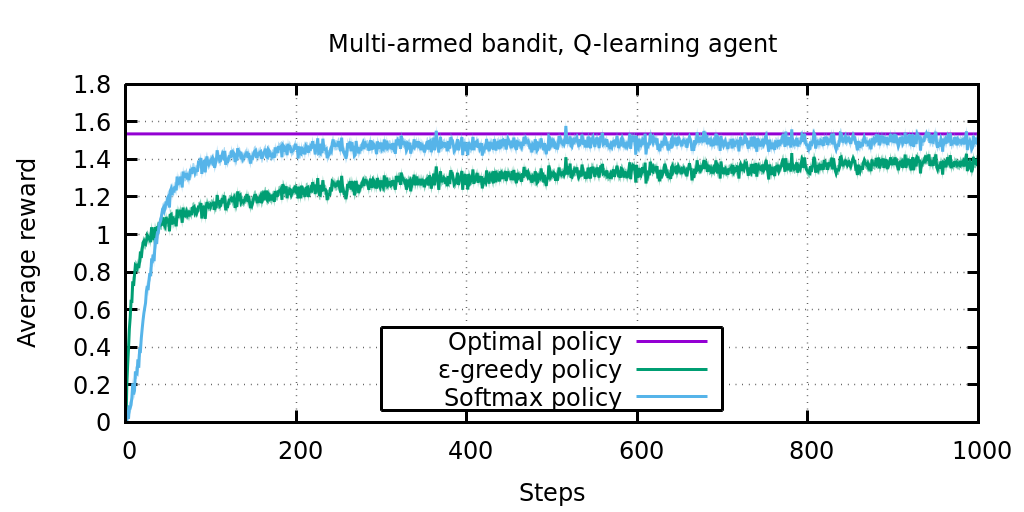
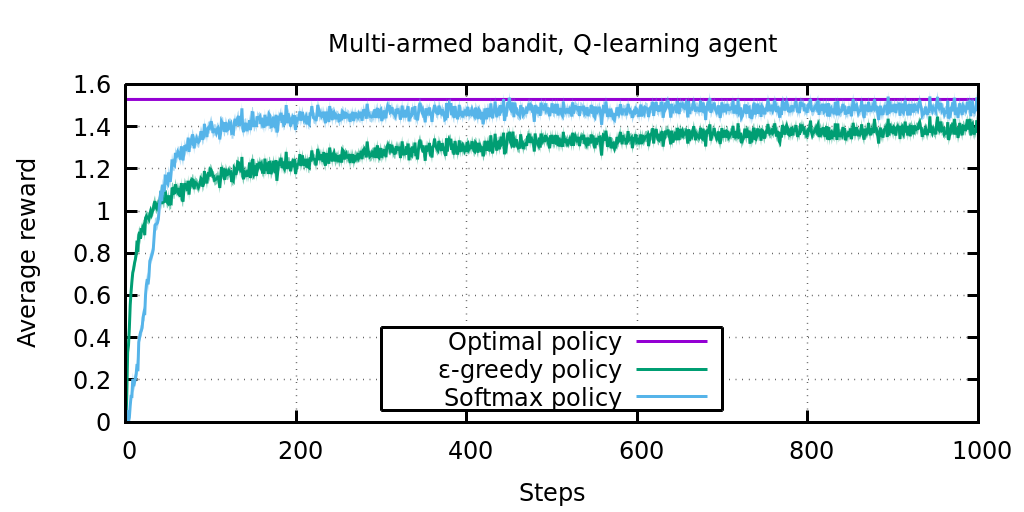
Add back Bayesian agent and policy-dependent bandit environment

Changed region(s): [[0.0625, 0.1875, 0.9688, 0.7812], [0.9375, 0.6562, 0.9688, 0.6875], [0.0938, 0.1562, 0.125, 0.1875]]

diff --git a/environments.py b/environments.py
@@ -45,18 +45,22 @@ class BanditEnvironment(BaseEnvironment):
     There are k discrete actions, each of which has a true values that is samples from a standard normal distribution
     The reward for a given action is sampled from a standard normal distribution shifted by the corresponding true value
     """
-    def __init__(self, k : int):
-        self.num_arms = k
+    def __init__(self, num_arms : int):
+        self.num_arms = num_arms
+        self.seed = 42
 
-    def interact(self, action : int, policy = None) -> float:
+    def interact(self, action : int, policy : NDArray[np.float64]) -> float:
         assert action >= 0 and action < self.num_arms
-        return np.random.normal(self.true_values[action], 1)
+        return np.random.normal(self.values[action], 1)
 
     def get_optimal_reward(self) -> int:
-        return self.true_values.max()
+        return self.values.max()
 
     def reset(self):
-        self.true_values = np.random.normal(0, 1, (self.num_arms,))
+        # Seed separate RNG, such that the environment is consistent across agents
+        self.seed += 1
+        self.random = np.random.default_rng(self.seed)
+        self.values = self.random.normal(0, 1, (self.num_arms,))
 
 
 class NewcombLikeEnvironment(BaseEnvironment):
@@ -122,3 +126,24 @@ class CoordinationGameEnvironment(NewcombLikeEnvironment):
             [2, 0],
             [0, 1],
         ])
+
+
+class PolicyDependentBanditEnvironment(NewcombLikeEnvironment):
+    """
+    Like a multi-armed bandit, but the reward depends on the (prediction,action) pair, rather than just the action.
+    This is a generalisation of both the multi-armed bandit and Newcomb-like problems
+    """
+    def __init__(self):
+        self.num_arms = 2
+        self.seed = 42
+        super().__init__(self.sample_reward_table())
+
+    def reset(self):
+        self.reward_table = self.sample_reward_table()
+
+    def sample_reward_table(self) -> NDArray[np.float64]:
+        # Seed separate RNG, such that the environment is consistent across agents
+        self.seed += 1
+        self.random = np.random.default_rng(self.seed)
+        return self.random.normal(0, 1, (self.num_arms,self.num_arms))  # 2D array
+

diff --git a/agents.py b/agents.py
@@ -58,11 +58,12 @@ class QLearningAgent(BaseAgent):
     Classical Q-learning agent that interacts with a multi-armed bandit
 
     Arguments:
+        num_actions:     Number of possible action in environment
         policy_function: Function to build policy from Q-values
         learning_rate:   Learning rate for Q-learning
     """
-    def __init__(self, k : int, policy_function, learning_rate : float = 0.1):
-        self.num_actions = k
+    def __init__(self, num_actions : int, policy_function : callable, learning_rate : float = 0.1):
+        self.num_actions = num_actions
         self.policy_function = policy_function
         self.learning_rate = learning_rate
 
@@ -76,6 +77,34 @@ class QLearningAgent(BaseAgent):
     def reset(self):
         self.q = np.zeros((self.num_actions,))
         self.step = 0
+
+
+class BayesianAgent(BaseAgent):
+    """
+    Agent using Bayesian inference
+
+    For each action it estimates a normal distribution and the picks the action with the largest central value
+    Use epsilon-greedy policy to balance continuous exploration
+    Optionally start with optimism to encourage early exploration
+    """
+    def __init__(self, num_actions : int, policy_function : callable):
+        self.num_actions = num_actions
+        self.policy_function = policy_function
+
+    def get_policy(self) -> NDArray[np.float64]:
+        self.step += 1
+        return self.policy_function(self.values, self.num_actions, self.step)
+
+    def update(self, policy : NDArray[np.float64], action : int, reward : float):
+        # Estimate reward of the action and its uncertainty based on observed reward and priors
+        # Define precision, tau, as 1/sigma^2 to avoid vanishing sigma precision issues
+        self.values[action] = (self.precision[action] * self.values[action] + reward) / (self.precision[action] + 1.0)
+        self.precision[action] += 1
+
+    def reset(self):
+        self.step = 0
+        self.values = np.zeros(self.num_actions)
+        self.precision = np.ones(self.num_actions) * 0.1
 
 
 class ExperimentalAgent1(QLearningAgent):

diff --git a/main.py b/main.py
@@ -16,17 +16,20 @@ def main(options):
     if options.environment == "bandit":
         env = environments.BanditEnvironment(options.arms)
     elif options.environment == "newcomb":
+        assert options.arms == 2
         env = environments.NewcombEnvironment()
-        assert options.arms == 2
     elif options.environment == "damascus":
+        assert options.arms == 2
         env = environments.DeathInDamascusEnvironment()
-        assert options.arms == 2
     elif options.environment == "asymmetric-damascus":
+        assert options.arms == 2
         env = environments.AsymmetricDeathInDamascusEnvironment()
-        assert options.arms == 2
     elif options.environment == "coordination":
-        env = environments.CoordinationGameEnvironment()
         assert options.arms == 2
+        env = environments.CoordinationGameEnvironment()
+    elif options.environment == "pdbandit":
+        assert options.arms == 2
+        env = environments.PolicyDependentBanditEnvironment()
     else:
         raise RuntimeError("Invalid environment: " + options.environment)
 
@@ -39,6 +42,8 @@ def main(options):
 
     if options.agent.startswith("classical"):
         agent = agents.QLearningAgent(options.arms, policy_function, options.learning_rate)
+    elif options.agent.startswith("bayesian"):
+        agent = agents.BayesianAgent(options.arms, policy_function)
     elif options.agent.startswith("experimental1"):
         agent = agents.ExperimentalAgent1(options.arms, policy_function, options.learning_rate)
     elif options.agent.startswith("experimental2"):

diff --git a/README.md b/README.md
@@ -10,13 +10,15 @@ The following environments are currently implemented:[^1]
 - **Death in Damascus**: The agent chooses to go to either the city of Damascus or Aleppo. Death knows the agent's policy and also goes to one of the cities. If they end up in the same city, the agent dies.
 - **Asymmetric Death in Damascus**: As above, but the agent prefers to die in Aleppo, rather than Damascus.
 - **Coordination game**: The agent plays a cooperative game against another agent with identical policy.
+- **Policy-dependent bandit**: A generalisation of both the classical multi-armed bandit and of Newcomb-like environments. A reward is sampled from a different probability distribution for each (prediction,action) pair. The probability distributions are determined randomly.
 
 
 ## Agents
 The following agents are investigated:
 1) Classical **Q-learning agent**:[^2] The agent uses either an epsilon-greedy or a softmax policy (with decaying epsilon/temperature) to encourage exploration.
-2) **Experimental agent 1**: Similar to Q-learning, but instead of returning a non-deterministic policy, it samples an action from that policy and then returns a deterministic policy that chooses this action. The predictor will thus deterministically predict that action. We therefore only access the diagonal entries of the reward table and are able to learn them via classical methods. If this optimal policy is deterministic, this agent is expected to converge to it.
-3) **Experimental agent 2**: This agent aims to learn the entire reward table, as that allows constructing the optimal policy explicitly, even if it is non-deterministic. The agent achieves this by picking strongly peaked (but still non-deterministic) policies, such that it can be fairly confident in what the predictor chose. Since we know the action taken and action predicted, we can then update the corresponding entry of the reward table. Whenever we pick an action that is different from the most likely one, we can update the off-diagonal entries of the table. Learning off-diagonal elements is slow, but we eventually reconstruct the entire reward table.
+2) **Bayesian agent**: Similar to Q-learning, but maintains a probability distribution over possible rewards. At each update, the central value and uncertainty get updated based on the new observation.
+3) **Experimental agent 1**: Similar to Q-learning, but instead of returning a non-deterministic policy, it samples an action from that policy and then returns a deterministic policy that chooses this action. The predictor will thus deterministically predict that action. We therefore only access the diagonal entries of the reward table and are able to learn them via classical methods. If this optimal policy is deterministic, this agent is expected to converge to it.
+4) **Experimental agent 2**: This agent aims to learn the entire reward table, as that allows constructing the optimal policy explicitly, even if it is non-deterministic. The agent achieves this by picking strongly peaked (but still non-deterministic) policies, such that it can be fairly confident in what the predictor chose. Since we know the action taken and action predicted, we can then update the corresponding entry of the reward table. Whenever we pick an action that is different from the most likely one, we can update the off-diagonal entries of the table. Learning off-diagonal elements is slow, but we eventually reconstruct the entire reward table.
 
 ## Results
 For each environment 2000 independent runs are performed. At each time step, the average reward is calculated. The results are given in the figures below.
@@ -28,15 +30,16 @@ For each environment 2000 independent runs are performed. At each time step, the
 | ![](figures/damascus.classical.png)               | ![](figures/damascus.experimental1.png)            | ![](figures/damascus.experimental2.png)            |
 | ![](figures/asymmetric-damascus.classical.png)    | ![](figures/asymmetric-damascus.experimental1.png) | ![](figures/asymmetric-damascus.experimental2.png) |
 | ![](figures/coordination.classical.png)           | ![](figures/coordination.experimental1.png)        | ![](figures/coordination.experimental2.png)        |
+| ![](figures/pdbandit.classical.png)               | ![](figures/pdbandit.experimental1.png)            | ![](figures/pdbandit.experimental2.png)            |
 
-We find that the classical agent converges close to the optimal policy on the multi-armed bandit environment, but fails to do so in the Newcomb-like environments. Note that the spread of individual runs is quite large. There are runs in which the classical agent achieves close-to-optimal reward on Newcomb-like environments. But even then, it does not converge on the optimal policy and looking at the plots we clearly see that we can not rely on the agent to behave sensibly on average.
+We find that the Q-learning and Bayesian agents converge close to the optimal policy on the multi-armed bandit environment, but fail to do so in the Newcomb-like environments. An [interesting exception](figures/damascus.bayesian.png) is the Bayesian agent in the Death in Damascus environment. Note that the spread of individual runs is quite large. There are runs in which the classical agent achieves close-to-optimal reward on Newcomb-like environments. But even then, it does not converge on the optimal policy and looking at the plots we clearly see that we can not rely on the agent to behave sensibly on average.
 
 The experimental agent 1 is able to converge on the best deterministic policy. In Newcomb's problem and the coordination game, these are the optimal policies. In Death in Damascus, this necessarily yields reward 0. In Newcomb's problem, some runs do not converge to the optimal policy within 1000 steps. This because a fast cool down of the exploration parameter was chosen. With a sufficiently slow cool down or given sufficient time, all runs will converge to the optimal policy.
 
-For technical reasons, experimental agent 2 cannot yet operate in the bandit environment. In all other environment, it is able to converge on the optimal policy. Some fine-tuning of the meta-parameters was necessary, to get it to converge within 1000 steps.
+For technical reasons, experimental agent 2 cannot yet operate in the bandit environment. In all other environment, it is able to converge on the optimal policy. Some fine-tuning of the meta-parameters was necessary, to get it to converge within 1000 steps. For the policy-dependent bandit the agent would require more episodes and exploration to converge to an optimal policy.
 
 ## Changelog and lessons learned
-### v2
+### [v2](https://github.com/fllor/ibrl-bandit/tree/v2)
 - Remove Bayesian and Infrabayesian agents, as they are probably not doing what we want
 - Add two experimental agents, aiming to solve Newcomb-like environments
 - Remove policy-dependent bandit environment; add more Newcomb-like environments
